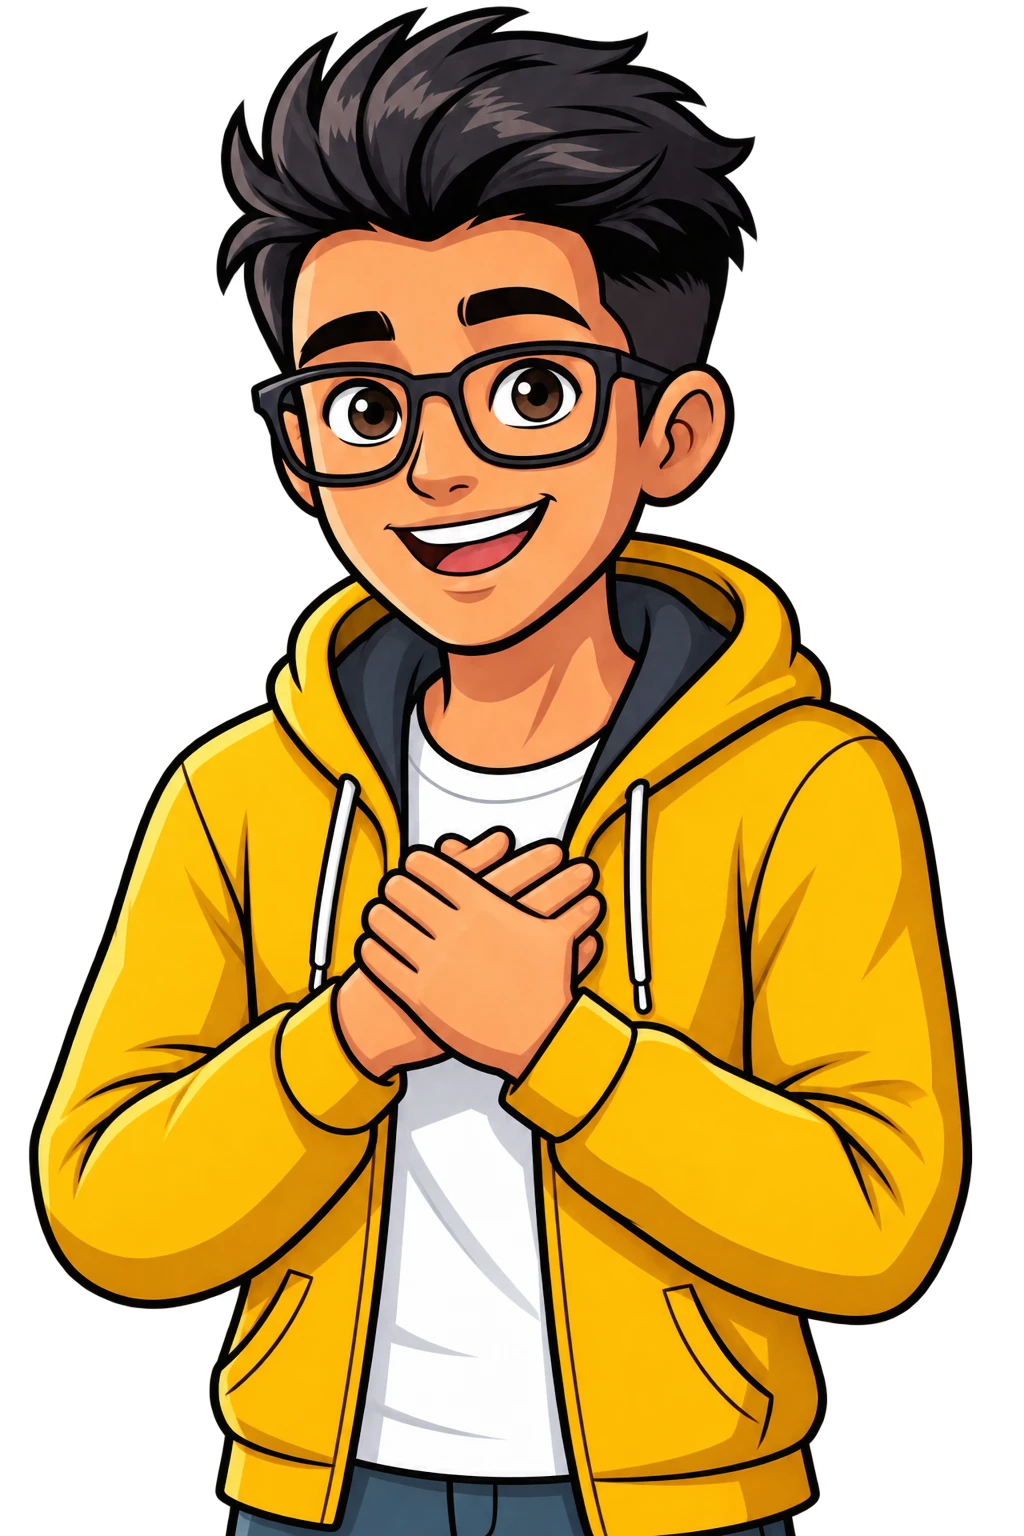
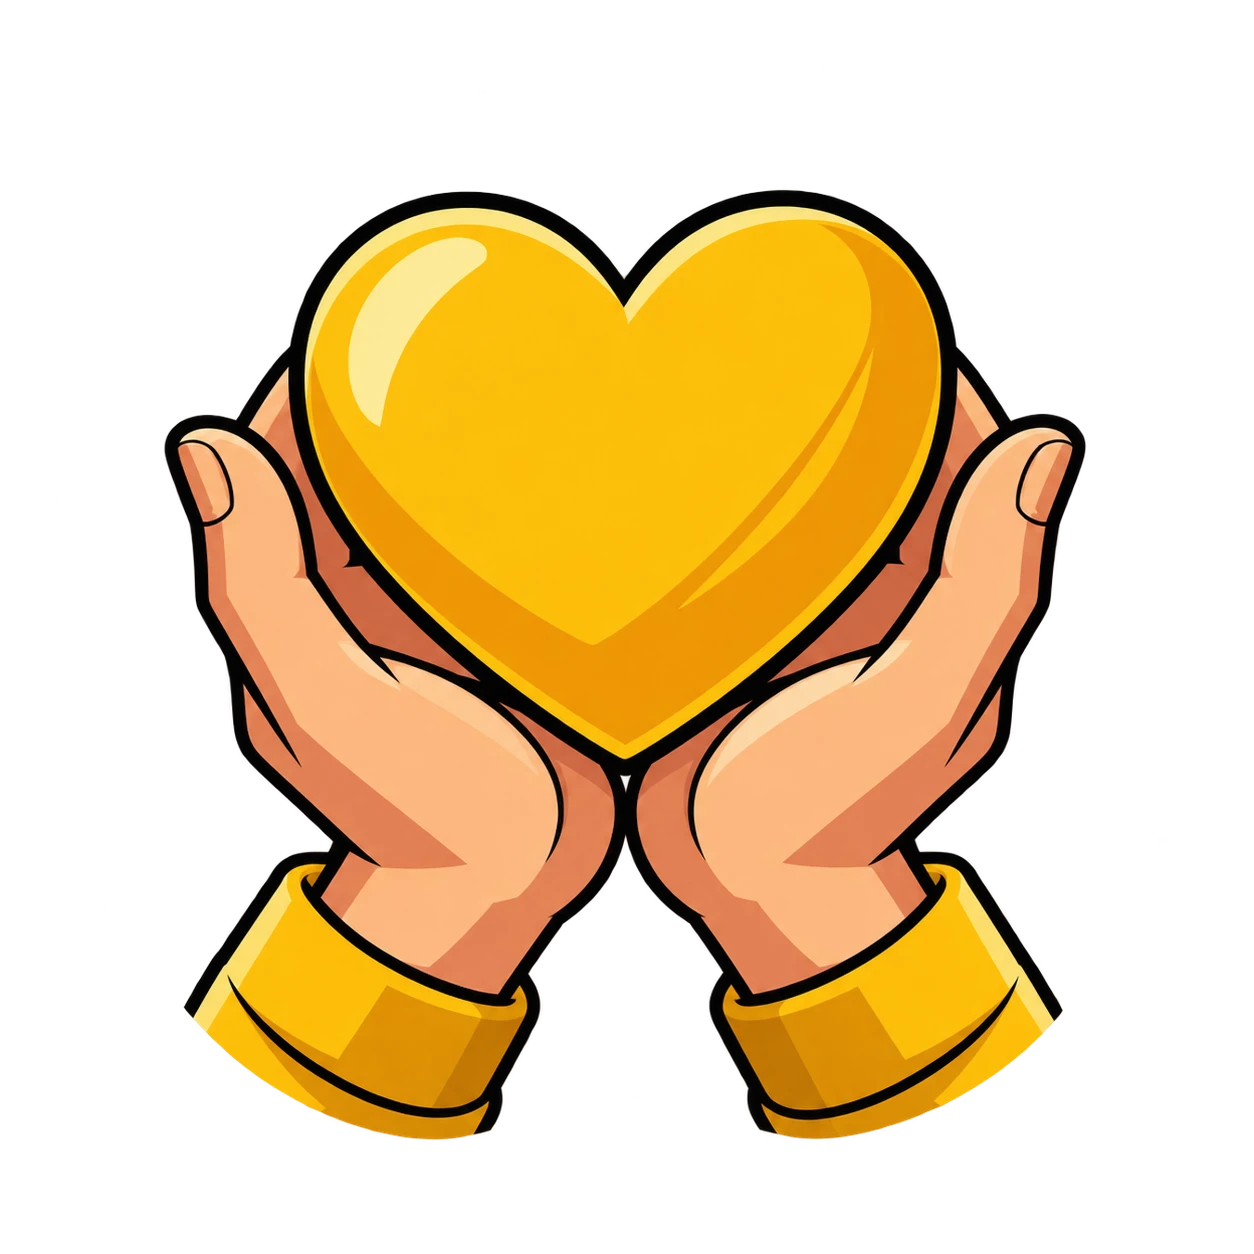
feat(support): new thank-you illustration (hands holding a heart)
Replace the closing thank-you image, correct its size in config
(1254x1254, square) and update its alt text in English and Persian.

diff --git a/src/config/support.ts b/src/config/support.ts
@@ -48,7 +48,7 @@ export const SUPPORT_IMAGES = {
   bnb: avatar("/support/support-bnb.webp"),
   bitcoin: avatar("/support/support-bitcoin.webp"),
   /** The Support page's closing thank-you. */
-  thanks: avatar("/support/support-thanks.webp"),
+  thanks: { src: "/support/support-thanks.webp", width: 1254, height: 1254 },
   /** Support tabs: Connect (waving) and Other payment methods (mug). */
   connect: avatar("/support/support-connect.webp"),
   payments: avatar("/support/support-payments.webp"),
